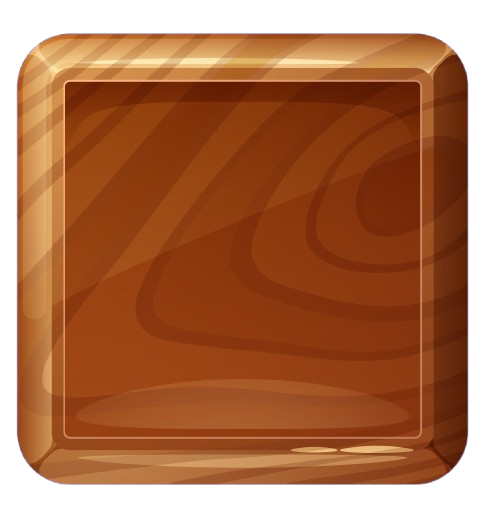
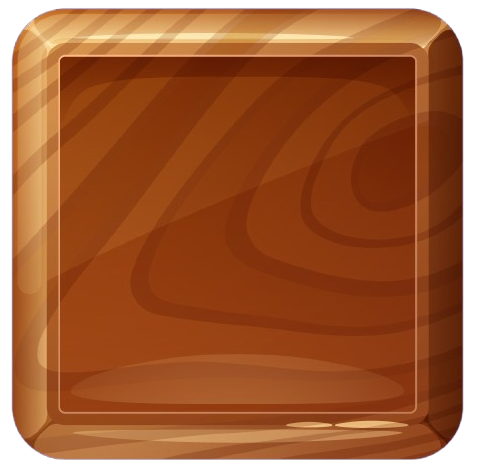
add item frame image

Changed region(s): [[0.0, 0.0, 0.9937, 0.9809]]

diff --git a/WindowsFormsApp4/WindowsFormsApp4/Map.cs b/WindowsFormsApp4/WindowsFormsApp4/Map.cs
@@ -672,6 +672,10 @@ namespace WindowsFormsApp4
                 }
             }
 
+            var itemFrame = new Rectangle(10, 160, 150, 150);
+            e.Graphics.DrawImage(Properties.Resources.itemFrame, itemFrame);
+
+
             // 이름 프레임 (화면 상단 왼쪽)
             var nameInfo = new Rectangle(150, 10, 300, 100);
             e.Graphics.DrawImage(Properties.Resources.info, nameInfo);
@@ -894,11 +898,14 @@ namespace WindowsFormsApp4
                 var player = Players.players[i];
                 if (player != null && player.isTagger)
                 {
-                    player.HP-=2;
-                    if(player.HP == 0)
+                    if(player.HP > 0)
                     {
-                        byte[] buffer = new DeathPacket { playerTag = i }.ToBytes();
-                        await AppState.Connection.Stream.WriteAsync(buffer, 0, buffer.Length);
+                        player.HP -= 2;
+                        if (player.HP == 0)
+                        {
+                            byte[] buffer = new DeathPacket { playerTag = i }.ToBytes();
+                            await AppState.Connection.Stream.WriteAsync(buffer, 0, buffer.Length);
+                        }
                     }
                 }
             }

diff --git a/WindowsFormsApp4/WindowsFormsApp4/Properties/Resources.Designer.cs b/WindowsFormsApp4/WindowsFormsApp4/Properties/Resources.Designer.cs
@@ -240,6 +240,16 @@ namespace WindowsFormsApp4.Properties {
         /// <summary>
         ///   System.Drawing.Bitmap 형식의 지역화된 리소스를 찾습니다.
         /// </summary>
+        internal static System.Drawing.Bitmap itemFrame {
+            get {
+                object obj = ResourceManager.GetObject("itemFrame", resourceCulture);
+                return ((System.Drawing.Bitmap)(obj));
+            }
+        }
+        
+        /// <summary>
+        ///   System.Drawing.Bitmap 형식의 지역화된 리소스를 찾습니다.
+        /// </summary>
         internal static System.Drawing.Bitmap loading {
             get {
                 object obj = ResourceManager.GetObject("loading", resourceCulture);
